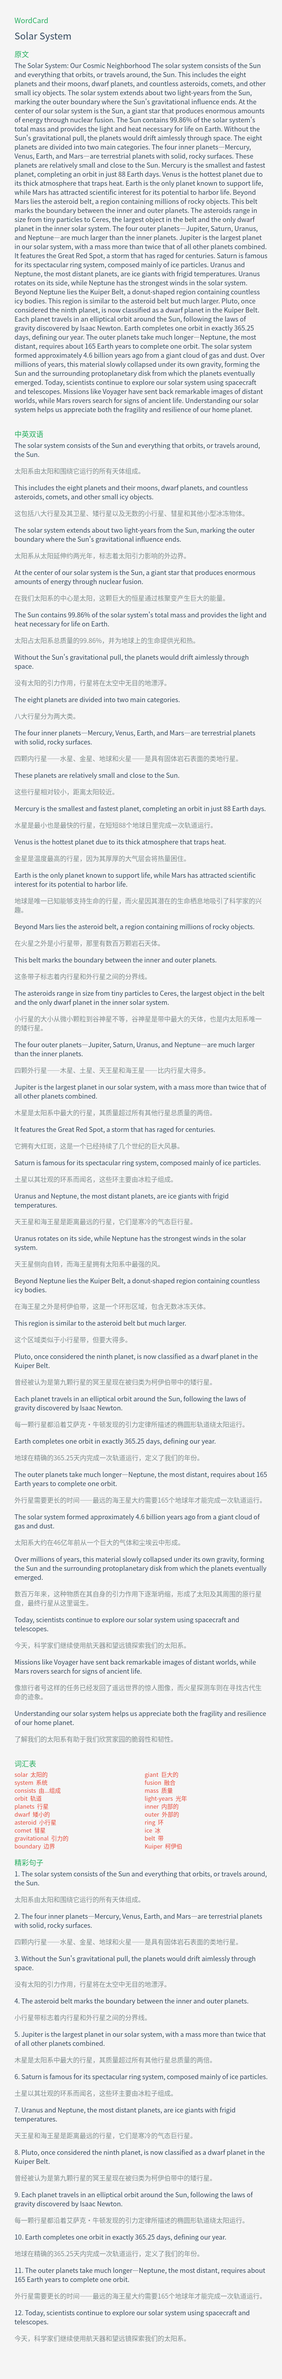
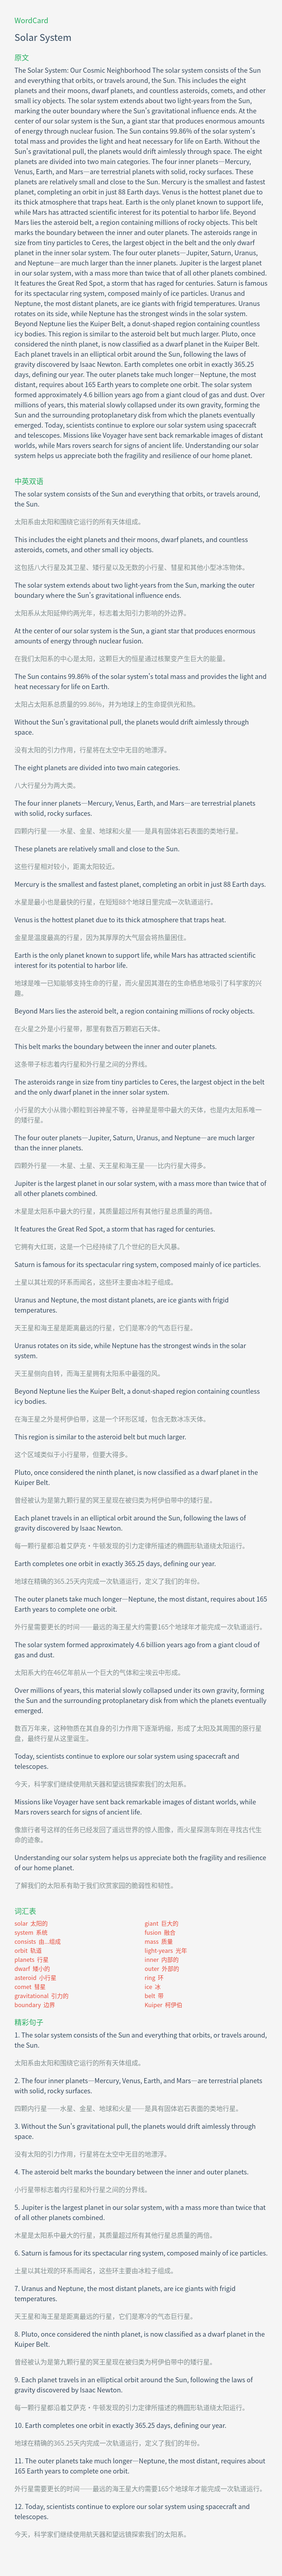
fix: increase line height from 1.4 to 1.6 for readability

Changed region(s): [[0.0308, 0.0, 0.9231, 0.9985], [0.8, 0.5928, 0.8308, 0.624], [0.7692, 0.4992, 0.8, 0.5304]]

diff --git a/generate_card.py b/generate_card.py
@@ -213,7 +213,7 @@ def create_png(sections, output_path):
         if cur: lines.append(cur)
         return lines
     def line_h(fs):
-        return int(fs * 1.4)
+        return int(fs * 1.6)
     def write_para(text, fs, x, baseline, color, max_w):
         wlines = wrap_en(text, max_w, fs) if not _is_cjk(text[0:1]) else wrap_cn(text, max_w, fs)
         bl = baseline

diff --git a/output/solar_system_trans.md b/output/solar_system_trans.md
@@ -1,6 +1,6 @@
 # Solar System
 
-> 2026-07-26 07:22:38
+> 2026-07-26 07:28:13
 
 ---
 
